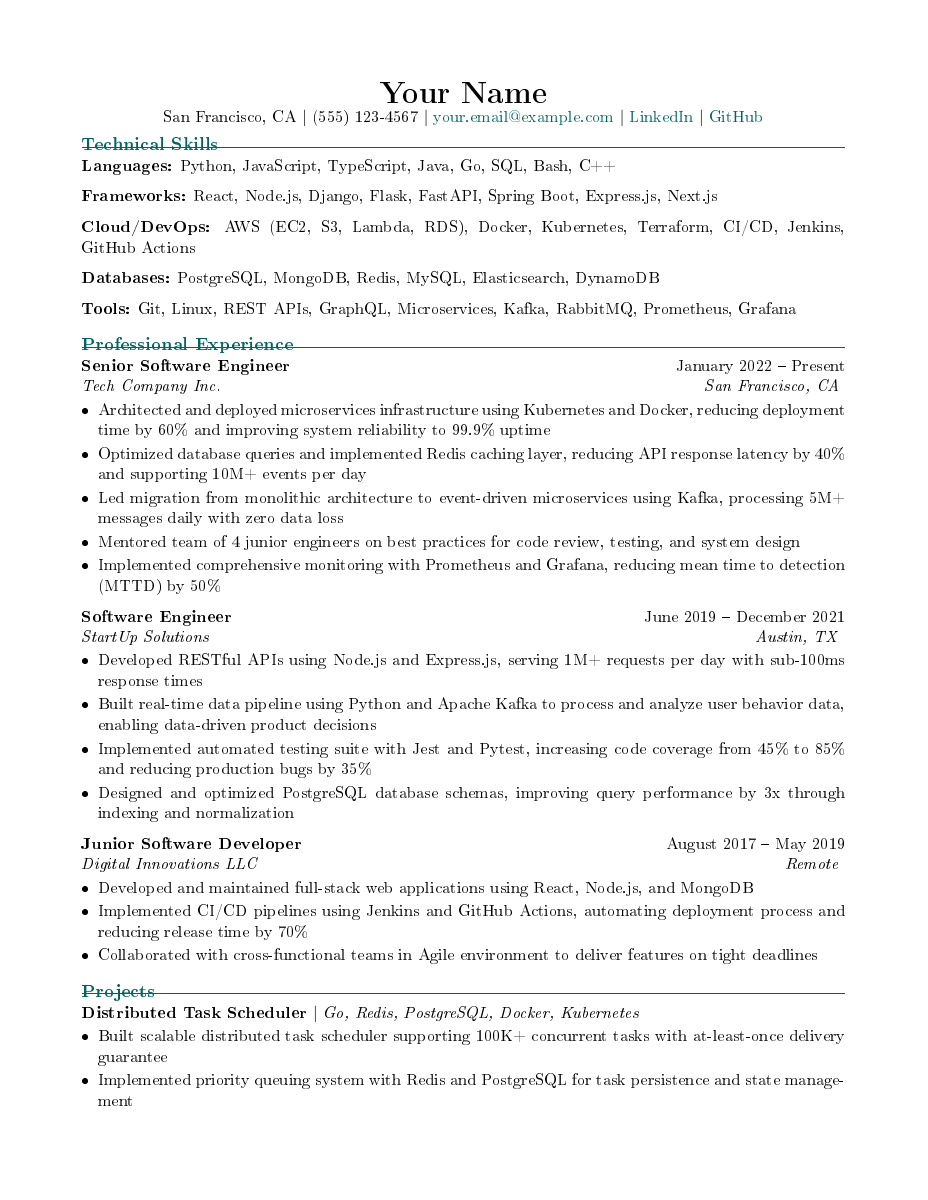
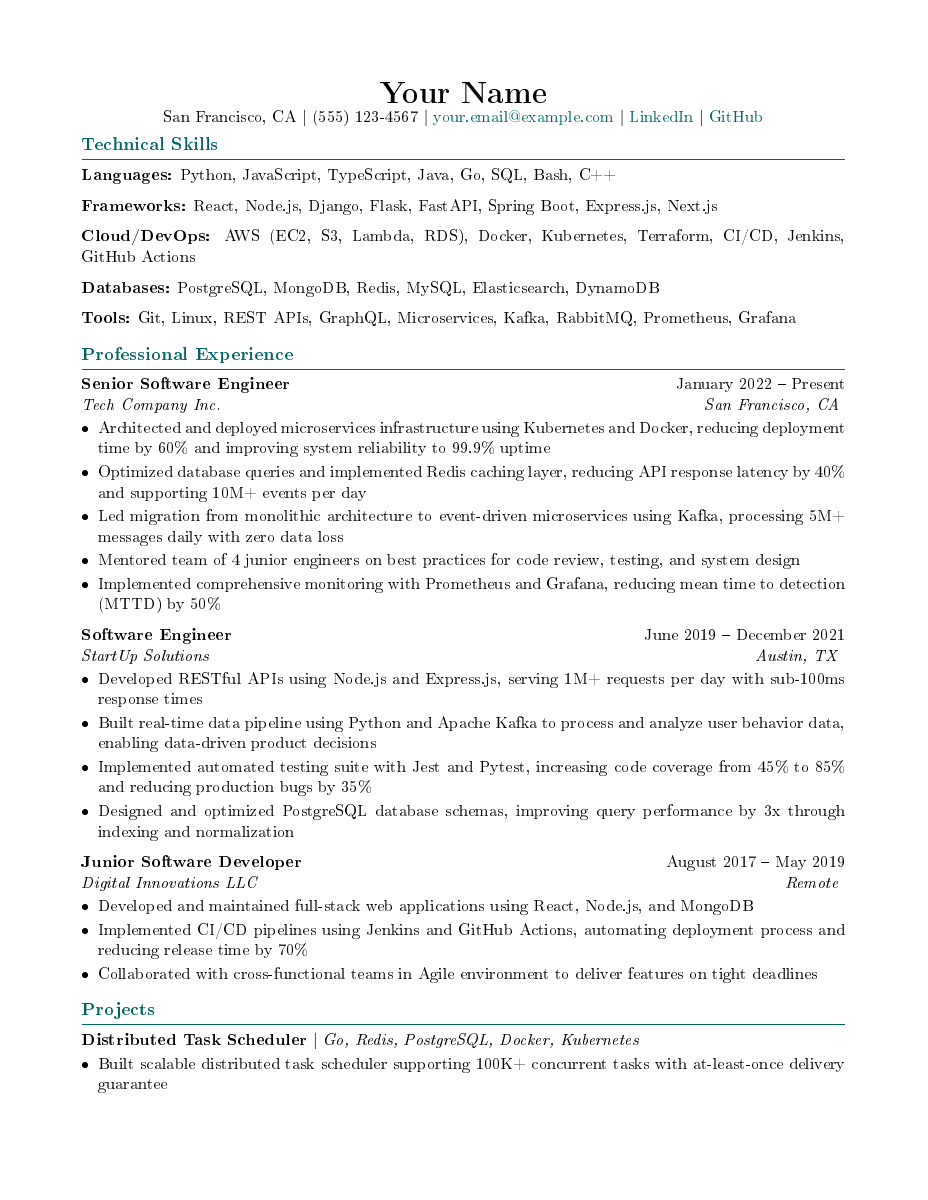
Fix overlapping text in resume templates
- Technical: increase spacing between section title and rule
  (vspace -0.5em -> 0.1em in titlerule)
- Entry-Level: increase spacing between section title and hrule
  (vspace -0.5em -> 0.15em in resumesection command)
- Modern Professional: use narrower separators (enspace vs quad)
  to prevent competency list clipping at right margin
- Executive: reduce signature strengths from 6 to 5 items and use
  narrower separators to prevent word hyphenation across lines
- Regenerated all 4 PNG previews

Changed region(s): [[0.0938, 0.1233, 0.9062, 0.925]]

diff --git a/assets/templates/resume-executive.tex b/assets/templates/resume-executive.tex
@@ -41,7 +41,7 @@
 C-level executive with 15+ years leading enterprise-scale operations across [industries]. Track record of driving \$XM+ revenue growth, managing P\&L of \$XM, and building high-performance teams of 100+ people. Board advisory experience in [sector]. Recognized for [signature strength] and [industry reputation].
 
 \vspace{0.3em}
-\noindent\textbf{Signature Strengths:} Strategic Planning \quad\textbar\quad P\&L Management \quad\textbar\quad M\&A Integration \quad\textbar\quad Digital Transformation \quad\textbar\quad Board Relations \quad\textbar\quad Global Operations
+\noindent\textbf{Signature Strengths:} Strategic Planning \,\textbar\, P\&L Management \,\textbar\, M\&A Integration \,\textbar\, Board Relations \,\textbar\, Global Operations
 
 % --- PROFESSIONAL EXPERIENCE ---
 \section{Professional Experience}

diff --git a/assets/templates/resume-modern-professional.tex b/assets/templates/resume-modern-professional.tex
@@ -48,11 +48,11 @@ Experienced [role] with X+ years driving [key outcomes] in [industry]. Expert in
 % --- CORE COMPETENCIES ---
 \section{Core Competencies}
 
-\skill{Competency One} \quad\textbar\quad
-\skill{Competency Two} \quad\textbar\quad
-\skill{Competency Three} \quad\textbar\quad
-\skill{Competency Four} \quad\textbar\quad
-\skill{Competency Five} \quad\textbar\quad
+\skill{Competency One} \enspace\textbar\enspace
+\skill{Competency Two} \enspace\textbar\enspace
+\skill{Competency Three} \enspace\textbar\enspace
+\skill{Competency Four} \enspace\textbar\enspace
+\skill{Competency Five} \enspace\textbar\enspace
 \skill{Competency Six}
 
 % --- EXPERIENCE ---

diff --git a/assets/templates/resume-technical.tex b/assets/templates/resume-technical.tex
@@ -30,8 +30,8 @@
   {}
   {0em}
   {}
-  [\vspace{-0.5em}\color{accentcolor}\titlerule]
-\titlespacing{\section}{0pt}{10pt}{8pt}
+  [\vspace{0.1em}{\color{accentcolor}\titlerule}]
+\titlespacing{\section}{0pt}{10pt}{6pt}
 
 % Compact lists
 \setlist[itemize]{leftmargin=*, noitemsep, topsep=0pt, partopsep=0pt, parsep=2pt}

diff --git a/assets/templates/resume-entry-level.tex b/assets/templates/resume-entry-level.tex
@@ -32,7 +32,7 @@
 \newcommand{\resumesection}[1]{
     \vspace{0.5em}
     {\color{accentcolor}\textbf{\large #1}}
-    \vspace{-0.5em}
+    \vspace{0.15em}
     {\color{accentcolor}\hrule height 0.5pt}
     \vspace{0.3em}
 }
